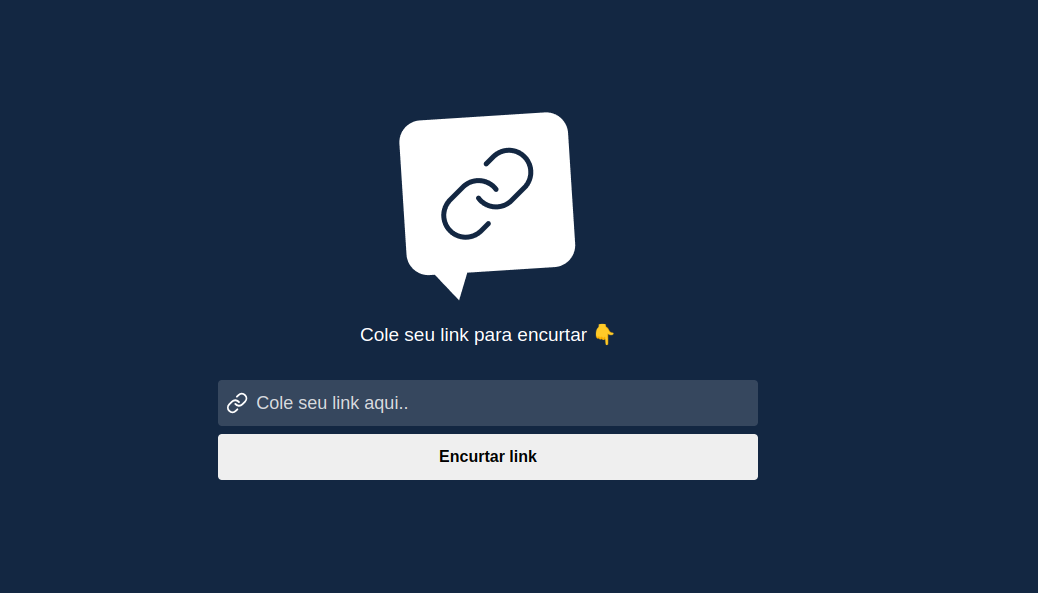
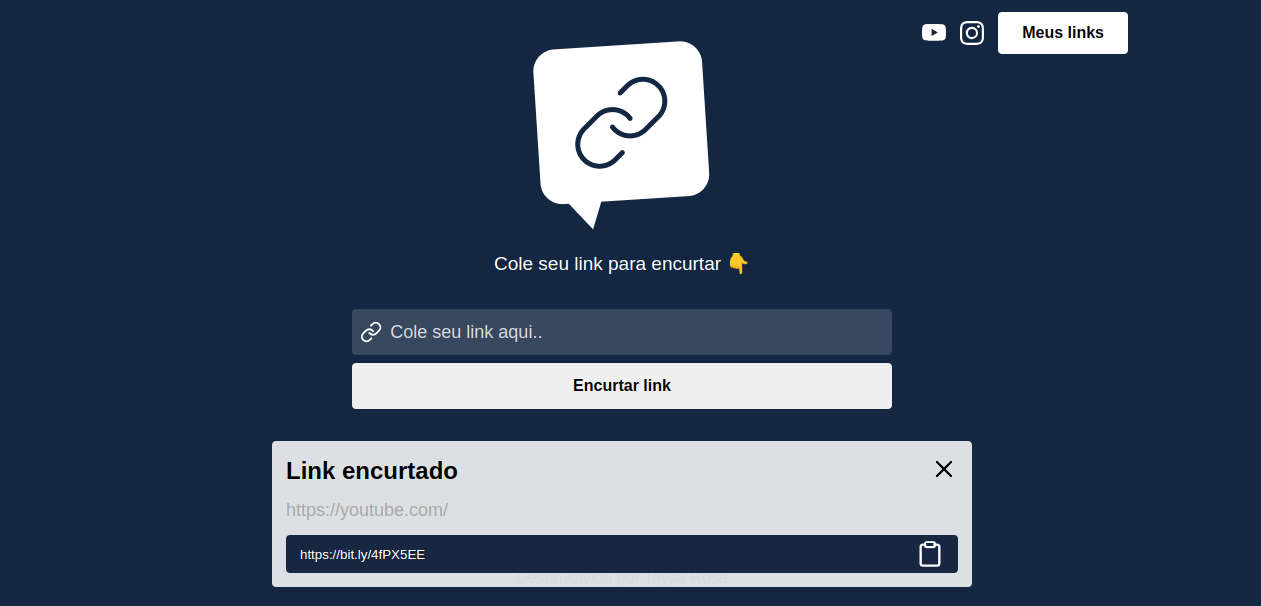
Api bit.ly

Changed region(s): [[0.185, 0.0607, 0.7707, 0.9713], [0.7091, 0.0, 0.894, 0.0911]]

diff --git a/README.md b/README.md
@@ -1,6 +1,6 @@
-<h1 align="center"> Projeto My Links  </h1>
+<h1 align="center"> Projeto Encurtador de Links  </h1>
 
-<p align="center">Projeto My Links - Lista de links para Bio do Instagram desenvolvido com React JS </p>
+<p align="center">Projeto Encurtador de Links - desenvolvido com React JS e API Bit.ly </p>
 
 <br>
 🚀 Desenvolvedora:
